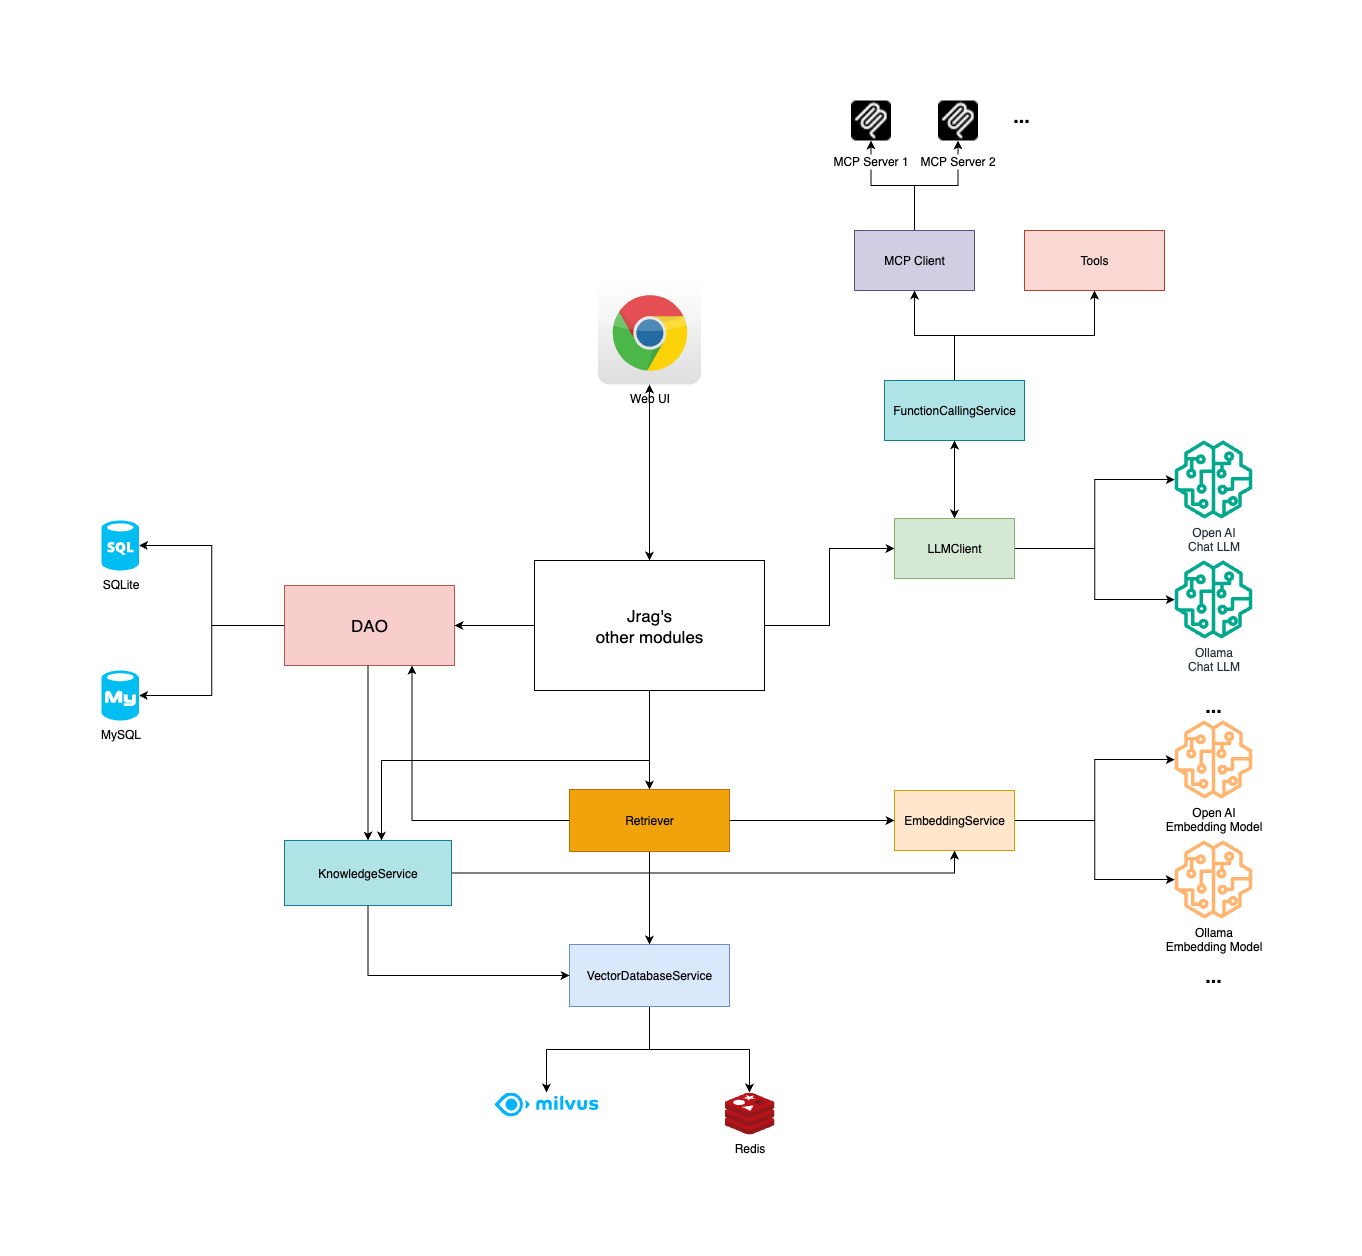
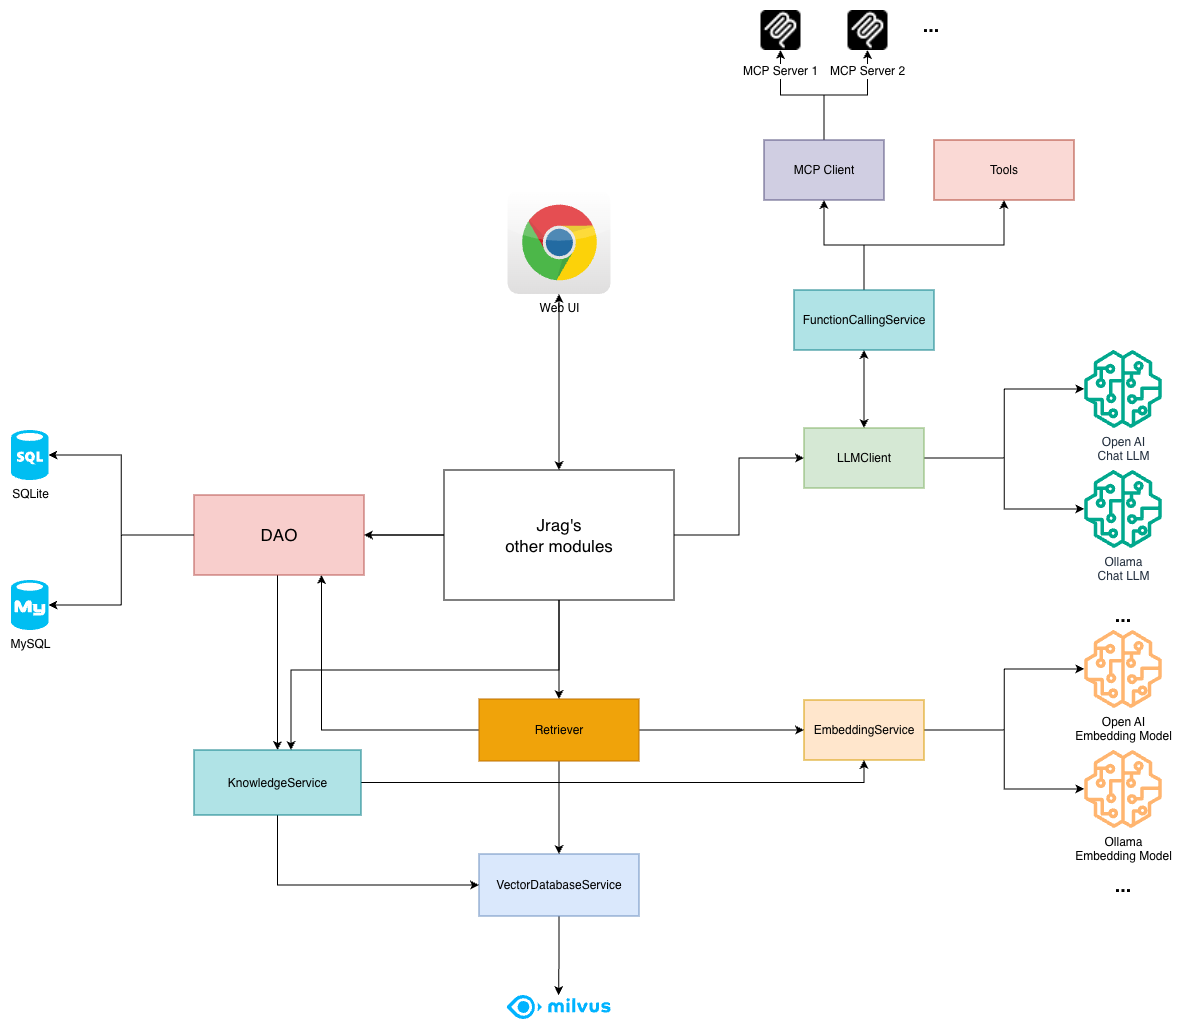
feat(config): 更新应用配置和系统提示
- 修改 open-ai 配置，更新模型名称为 qwen-plus
- 更改 API 基础 URL 为 dashscope.aliyuncs.com
- 更新 completions 路径为 /compatible-mode/v1/chat/completions
- 添加上下文长度配置 context-length: 131072
- 配置 API 密钥
- 更新系统提示文本，明确知识回答必须使用完整原文
- 从 README 中移除 Redis 向量数据库提及
- 添加知识维护相关文档和特性说明
- 更新 drawio 图表的版本信息和图形布局

diff --git a/README_en.md b/README_en.md
@@ -2,7 +2,7 @@
 
 [![GitHub](https://img.shields.io/badge/GitHub-Jrag-blue?logo=github)](https://github.com/jerryt92/jrag)
 
-Jrag is a RAG (Retrieval-Augmented Generation) and MCP tool integration platform based on Java Spring Boot, designed to enhance the application capabilities of large language models within the Java ecosystem by combining retrieval, MCP tools, and generative AI model technologies. The platform supports integration with various mainstream large language model interfaces, including Ollama and OpenAI, and incorporates Milvus and Redis as vector databases to provide efficient vector storage and retrieval services.
+Jrag is a RAG (Retrieval-Augmented Generation) and MCP tool integration platform based on Java Spring Boot. It aims to enhance the application capabilities of large language models in the Java ecosystem by combining retrieval, MCP tools, and generative AI model technologies. The platform supports integration with multiple mainstream large language model interfaces, including Ollama and OpenAI, and connects with Milvus and vector databases to provide efficient vector storage and retrieval services.
 
 ## Contributors
 
@@ -30,6 +30,16 @@ The interface style is elegant and uses a glassy style, supporting dark mode.
 
 ![ui3](assets/ui/3.png)
 
+## Knowledge Base Maintenance
+
+![ui4](assets/ui/4.png)
+
+![ui5](assets/ui/5.png)
+
+![ui6](assets/ui/6.png)
+
+![ui7](assets/ui/7.png)
+
 ## Purpose
 
 So far, most open-source RAG platforms are implemented in Python. As a Java developer, I hope Jrag can be more suitable for Java developers' use, providing better LLM integration and application for Java developers.
@@ -37,12 +47,13 @@ So far, most open-source RAG platforms are implemented in Python. As a Java deve
 ## Features
 
 - **Multi-model Support**: Compatible with Ollama and OpenAI-style interfaces, allowing flexible switching between different large language models.
-- **Vector Database Integration**: Supports Milvus and Redis vector databases to meet performance requirements in different scenarios.
+- **Vector Database Integration**: Supports Milvus vector databases to meet performance requirements in different scenarios.
 - **Function Calling**: Supports function calling, enabling LLMs to call APIs from other systems.
 - **MCP Support**: Support MCP (Model Context Protocol) to standardize model tool calling.
 - MCP Client interacts with LLM using Function Calling technology instead of Prompt, saving token consumption.
 - **Java Ecosystem Optimization**: Designed specifically for Java developers to simplify the integration and application of RAG technology in Java projects.
 - **JDK21**: Jrag is developed based on JDK21 and can use virtual threads to improve concurrent performance.
+- **Knowledge Base Maintenance**: Provide knowledge base management functions, supporting operations such as adding, modifying, deleting, and hit testing of knowledge in the knowledge base.
 
 ## To Be Improved
 
